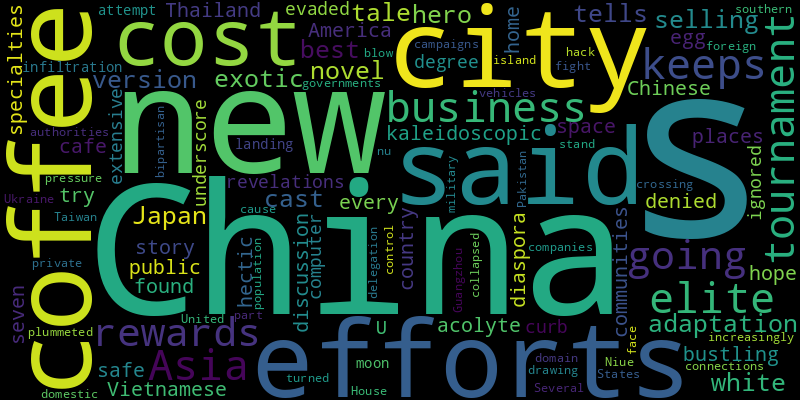
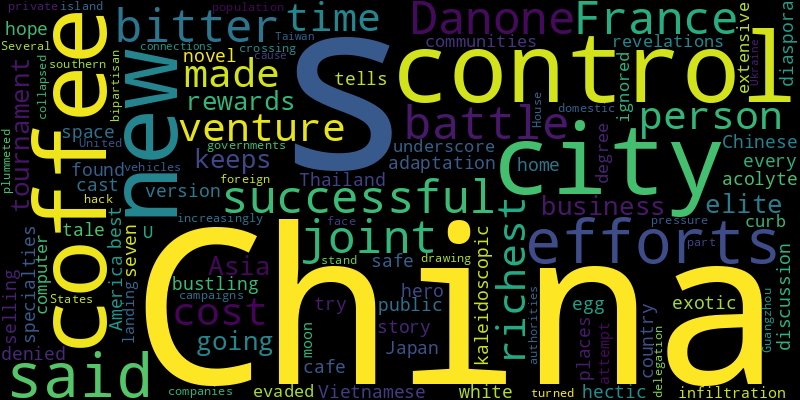
chore(bot): 🐐 auto commit

diff --git a/README.md b/README.md
@@ -3,31 +3,32 @@ Auto RSS New York Times and Generate Word Cloud
 
 ## New York Times Global News
 * For more than a decade, the United States has nurtured a secret intelligence partnership with Ukraine that is now critical for both countries in countering Russia.
-* Homesh, one of the four West Bank settlements dismantled by Israel when it withdrew from Gaza in 2005, has taken on new importance since Oct. 7 and the war against Hamas.
-* Despite death, destruction and deprivation, nearly 90 percent still believe in Ukraine’s ultimate victory — as long as Western aid continues.
-* For the first time, women professional softball players in Latin America have a league of their own, another gain for women seeking more opportunities.
 * She watched, distressed, as Aleksei was sent off to war. Now, 14 months after he died in eastern Ukraine, Yulia Seleznyova holds a sliver of hope for a miracle.
-* The allies said their attacks, the largest in weeks against the Iran-backed militia, were meant to prevent further attacks on ships in the Red Sea.
+* The tally that President Volodymyr Zelensky revealed on Sunday differs sharply from that given by U.S. officials, who have said the number is closer to 70,000.
+* For the first time, women professional softball players in Latin America have a league of their own, another gain for women seeking more opportunities.
+* Homesh, one of the four West Bank settlements dismantled by Israel when it withdrew from Gaza in 2005, has taken on new importance since Oct. 7 and the war against Hamas.
+* The opposition in exile has called for a boycott of the parliamentary vote, which includes only parties that support Aleksandr G. Lukashenko, who has ruled the country for 30 years.
+* Despite death, destruction and deprivation, nearly 90 percent still believe in Ukraine’s ultimate victory — as long as Western aid continues.
 * Two years after Russia’s full-scale invasion, Ukrainian leaders are seeking a path forward in the face of ferocious assaults and daunting unknowns.
 * Rape, killing, torture: A stark report offers new evidence of horrific abuses carried out by Sudan’s military and its enemy, the paramilitary Rapid Support Forces.
-* A fire that killed at least 10 people left many refugees from Ukraine without a home and others scrambling to rebuild their lives.
-* Western sanctions haven’t worked. Weapons from allies are running low. Pressure may build on Kyiv to seek a settlement, even from a weakened position.
+* A fire that killed at least 10 people left many refugees from Ukraine without homes and others scrambling to rebuild their lives.
 
 ![Global](./global.png)
 ## New York Times United States News
-* The police released video of the student, Nex Benedict, recounting the altercation a day before their death, which has drawn national scrutiny.
-* As more details emerged about the suspect in the death of a nursing student, the community remained in shock of the first homicide on the campus in decades.
-* The lawyers presented an affidavit describing cellphone records they will likely use to try to prove the prosecutors lied about when they began a romantic relationship.
-* The Oklahoma school superintendent, Ryan Walters, said “radical leftists” had created a narrative about the death of 16-year-old Nex Benedict that “hasn’t been true.”
-* The former president shows no sign of being shaken from his controlling position in the G.O.P. — not in 2024, and not in the foreseeable future.
-* Challenges to laws in Florida and Texas meant to protect conservative viewpoints are likely to yield a major constitutional ruling on tech platforms’ free speech rights.
 * The Michigan governor, who has taken a prominent role in the president’s campaign, is popular in her state. But as the Democratic coalition frays, some wonder if that will be enough.
-* Nikki Haley’s fortitude after losing her home state on Saturday looked more like stubborn grit and determination than upbeat confidence. Donald J. Trump didn’t even mention her, let alone insult her.
-* Striking a more serious tone, Ms. Haley said she would continue her campaign despite a heavy defeat to Donald Trump in South Carolina, her home state.
-* Crystal Clanton, who is close with the Thomas family, has said she does not remember sending the messages, which emerged in 2017.
+* A mullet contest, a “mud duel” with pool noodles, an “evading arrest” obstacle course — and a chance to mull why the meme that launched it all keeps hanging on.
+* Nex Benedict, a 16-year-old student, died one day after an altercation with classmates in a school bathroom in Oklahoma, renewing scrutiny over the state’s strict gender policies.
+* The Bodacious Belles, a women’s group in Beaufort, N.C., shows the difference a network of support can make in an aging America.
+* A survey conducted by Americans for Contraception shows the overwhelming popularity of birth control, and suggests voters are primed to punish Republicans for opposing a measure to protect access to it.
+* She knows the stakes. She loathes Donald Trump. But Terry Ahwal says she won’t back President Biden in November.
+* Donald Trump has publicly backed a new leader, Michael Whatley, to replace her, as the former president continues to tighten his grip on the Republican Party.
+* The tech industry argues that laws in Florida and Texas, prompted by conservative complaints about censorship, violate the First Amendment. The court’s decision could fundamentally alter the nature of speech on the internet.
+* In remarks at Harvard, Judge Kevin C. Newsom said the justices had strayed from originalism in parts of their blockbuster opinions on abortion and guns.
+* Are the protesters against a new police training center part of a violent “extremist organization,” or are the serious charges they face a means of stifling free speech?
 
 ![US](./usnews.png)
 ## New York Times Asia News
+* A bitter but successful battle with Danone of France for control of a joint venture made him the richest person in China for a time.
 * The cost of business in Asia’s elite tournament keeps going up. The rewards do not.
 * A 1980 adaptation of the best-selling novel cast it as the tale of a white hero in an exotic Japan. A new version tells a more kaleidoscopic story.
 * In this hectic, bustling city, there’s a cafe for every coffee acolyte. Here are seven places where you can try egg coffee and other Vietnamese specialties.
@@ -37,6 +38,5 @@ Auto RSS New York Times and Generate Word Cloud
 * China has increasingly turned to private companies in campaigns to hack foreign governments and control its domestic population.
 * Several vehicles plummeted from the crossing, part of which collapsed, in the southern city of Guangzhou, the authorities said.
 * A bipartisan House delegation said the United States would stand by the island in the face of pressure from China, drawing connections between Taiwan’s cause and Ukraine’s.
-* Also, a blow to Pakistan’s military and Niue’s fight for the .nu domain.
 
 ![Asian](./asian.png)
